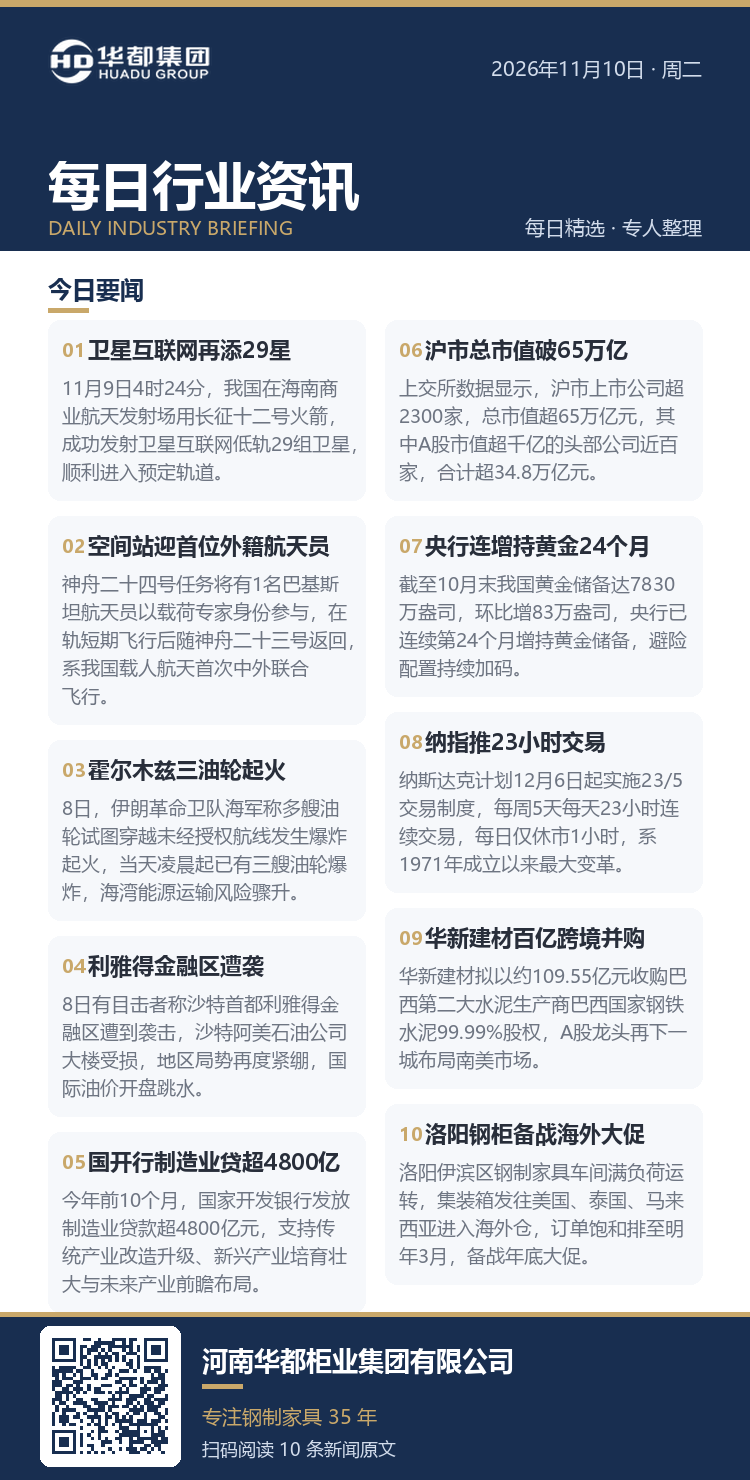
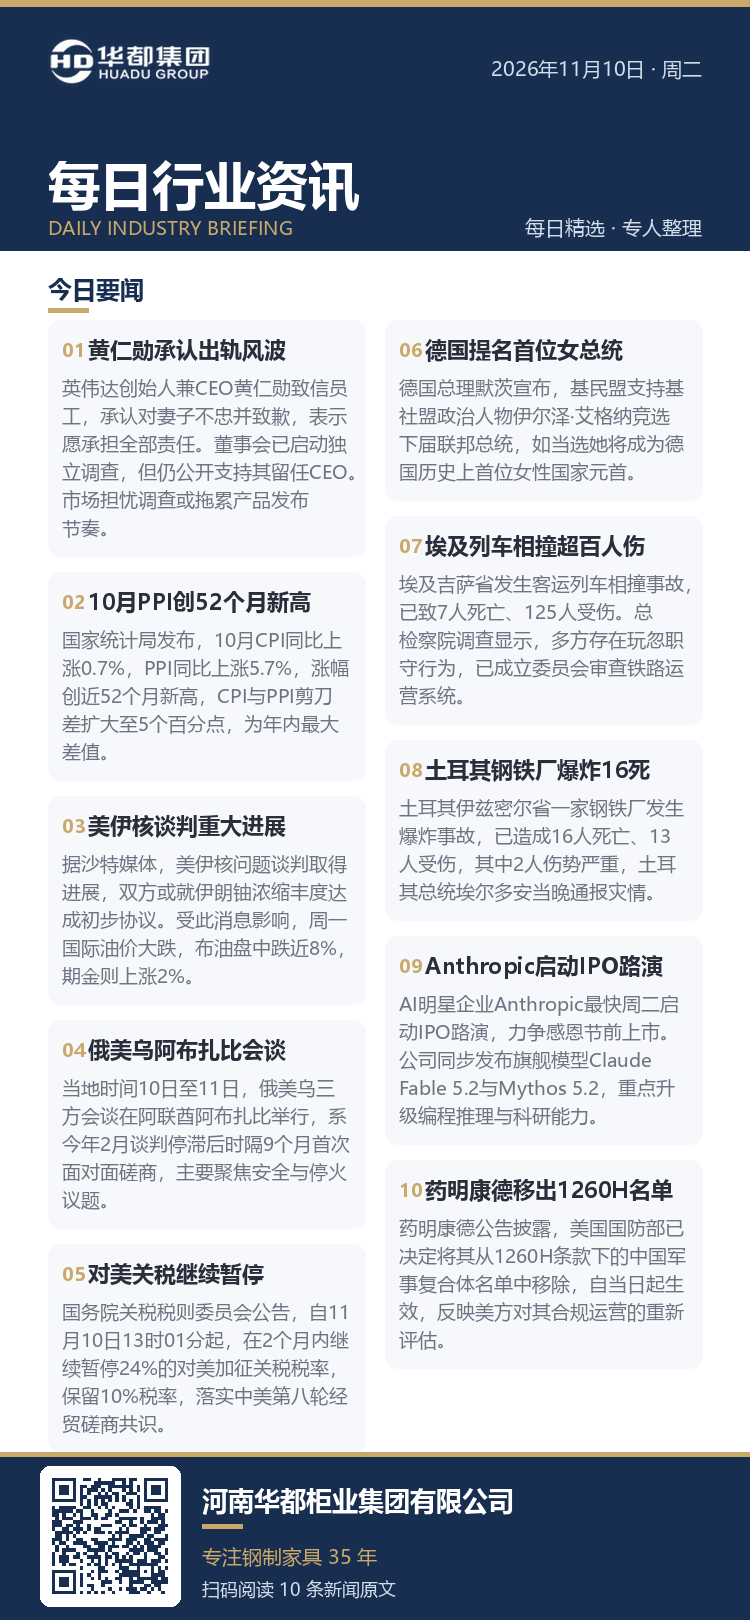
poster 2026-11-10

diff --git a/docs/2026-11-10.html b/docs/2026-11-10.html
@@ -40,7 +40,7 @@ body { font-family:-apple-system,'PingFang SC','Microsoft YaHei',sans-serif;
 <div class="tip">👇 今日海报（长按图片即可保存 / 转发同事群）</div>
 <img src="latest.png" alt="今日行业资讯海报">
 </div>
-<div class="list wrap"><div class="sect">今日要闻</div><div class="card"><span class="no">01</span><h2>卫星互联网再添29星</h2><p>11月9日4时24分，我国在海南商业航天发射场用长征十二号火箭，成功发射卫星互联网低轨29组卫星，顺利进入预定轨道。</p><div class="meta"><span class="src">新华社</span><a href="https://www.toutiao.com/article/7705958340392567305/" target="_blank" rel="noopener">阅读原文 →</a></div></div><div class="card"><span class="no">02</span><h2>空间站迎首位外籍航天员</h2><p>神舟二十四号任务将有1名巴基斯坦航天员以载荷专家身份参与，在轨短期飞行后随神舟二十三号返回，系我国载人航天首次中外联合飞行。</p><div class="meta"><span class="src">中国载人航天工程办公室</span><a href="http://mp.weixin.qq.com/s?__biz=MzA4MDQ2NDYxNg==&mid=2651831374&idx=1&sn=0f2ddb8da2fe7ee79a2aebd1fae492dd&chksm=8535d81f5999d8cf0ceb3f38de9c133ad6d46faba96b7d5d4239ddfdb222feba3f342994ce9b#rd" target="_blank" rel="noopener">阅读原文 →</a></div></div><div class="card"><span class="no">03</span><h2>霍尔木兹三油轮起火</h2><p>8日，伊朗革命卫队海军称多艘油轮试图穿越未经授权航线发生爆炸起火，当天凌晨起已有三艘油轮爆炸，海湾能源运输风险骤升。</p><div class="meta"><span class="src">央视新闻</span><a href="https://www.21jingji.com/article/20261109/herald/253e7bdbc68aeac4b6f3d27aa628c59d.html" target="_blank" rel="noopener">阅读原文 →</a></div></div><div class="card"><span class="no">04</span><h2>利雅得金融区遭袭</h2><p>8日有目击者称沙特首都利雅得金融区遭到袭击，沙特阿美石油公司大楼受损，地区局势再度紧绷，国际油价开盘跳水。</p><div class="meta"><span class="src">法新社</span><a href="https://m.21jingji.com/article/20261109/herald/9ed2a458b1149bbb23dc5a2c75c3e0ea.html" target="_blank" rel="noopener">阅读原文 →</a></div></div><div class="card"><span class="no">05</span><h2>国开行制造业贷超4800亿</h2><p>今年前10个月，国家开发银行发放制造业贷款超4800亿元，支持传统产业改造升级、新兴产业培育壮大与未来产业前瞻布局。</p><div class="meta"><span class="src">央视新闻</span><a href="https://www.jwview.com/jingwei/html/11-09/696136.shtml" target="_blank" rel="noopener">阅读原文 →</a></div></div><div class="card"><span class="no">06</span><h2>沪市总市值破65万亿</h2><p>上交所数据显示，沪市上市公司超2300家，总市值超65万亿元，其中A股市值超千亿的头部公司近百家，合计超34.8万亿元。</p><div class="meta"><span class="src">上交所</span><a href="https://www.cnfin.com/hb-lb/detail/20261109/4492657_1.html" target="_blank" rel="noopener">阅读原文 →</a></div></div><div class="card"><span class="no">07</span><h2>央行连增持黄金24个月</h2><p>截至10月末我国黄金储备达7830万盎司，环比增83万盎司，央行已连续第24个月增持黄金储备，避险配置持续加码。</p><div class="meta"><span class="src">央行</span><a href="https://www.cnstock.com/commonDetail/825848" target="_blank" rel="noopener">阅读原文 →</a></div></div><div class="card"><span class="no">08</span><h2>纳指推23小时交易</h2><p>纳斯达克计划12月6日起实施23/5交易制度，每周5天每天23小时连续交易，每日仅休市1小时，系1971年成立以来最大变革。</p><div class="meta"><span class="src">陆家嘴财经早餐</span><a href="http://mp.weixin.qq.com/s?__biz=MjM5ODQ4MjgyMQ==&mid=2651354945&idx=2&sn=52ca3491ad013a7312f3e940596638ae&chksm=bc351450389b948f7e022ce39c8125fdf6e664227c0d23af67dfaba7601aeec0da136a595c40#rd" target="_blank" rel="noopener">阅读原文 →</a></div></div><div class="card"><span class="no">09</span><h2>华新建材百亿跨境并购</h2><p>华新建材拟以约109.55亿元收购巴西第二大水泥生产商巴西国家钢铁水泥99.99%股权，A股龙头再下一城布局南美市场。</p><div class="meta"><span class="src">大河财立方</span><a href="https://app.dahecube.com/nweb/pc/article.html?artid=292241?recid=1" target="_blank" rel="noopener">阅读原文 →</a></div></div><div class="card"><span class="no">10</span><h2>洛阳钢柜备战海外大促</h2><p>洛阳伊滨区钢制家具车间满负荷运转，集装箱发往美国、泰国、马来西亚进入海外仓，订单饱和排至明年3月，备战年底大促。</p><div class="meta"><span class="src">新华财经</span><a href="https://www.cnfin.com/hg-lb/detail/20261109/4492638_1.html" target="_blank" rel="noopener">阅读原文 →</a></div></div></div>
+<div class="list wrap"><div class="sect">今日要闻</div><div class="card"><span class="no">01</span><h2>黄仁勋承认出轨风波</h2><p>英伟达创始人兼CEO黄仁勋致信员工，承认对妻子不忠并致歉，表示愿承担全部责任。董事会已启动独立调查，但仍公开支持其留任CEO。市场担忧调查或拖累产品发布节奏。</p><div class="meta"><span class="src">腾讯新闻</span><a href="https://news.qq.com/rain/a/20261110A037NX00" target="_blank" rel="noopener">阅读原文 →</a></div></div><div class="card"><span class="no">02</span><h2>10月PPI创52个月新高</h2><p>国家统计局发布，10月CPI同比上涨0.7%，PPI同比上涨5.7%，涨幅创近52个月新高，CPI与PPI剪刀差扩大至5个百分点，为年内最大差值。</p><div class="meta"><span class="src">新华财经</span><a href="https://www.cnfin.com/hb-lb/detail/20261110/4493224_1.html" target="_blank" rel="noopener">阅读原文 →</a></div></div><div class="card"><span class="no">03</span><h2>美伊核谈判重大进展</h2><p>据沙特媒体，美伊核问题谈判取得进展，双方或就伊朗铀浓缩丰度达成初步协议。受此消息影响，周一国际油价大跌，布油盘中跌近8%，期金则上涨2%。</p><div class="meta"><span class="src">华尔街见闻</span><a href="https://www.163.com/dy/article/LBBTSBKV05198NMR.html" target="_blank" rel="noopener">阅读原文 →</a></div></div><div class="card"><span class="no">04</span><h2>俄美乌阿布扎比会谈</h2><p>当地时间10日至11日，俄美乌三方会谈在阿联酋阿布扎比举行，系今年2月谈判停滞后时隔9个月首次面对面磋商，主要聚焦安全与停火议题。</p><div class="meta"><span class="src">央视网</span><a href="https://tv.cctv.com/2026/11/10/VIDEg3KH0fjQomdLrC8sbMil261110.shtml" target="_blank" rel="noopener">阅读原文 →</a></div></div><div class="card"><span class="no">05</span><h2>对美关税继续暂停</h2><p>国务院关税税则委员会公告，自11月10日13时01分起，在2个月内继续暂停24%的对美加征关税税率，保留10%税率，落实中美第八轮经贸磋商共识。</p><div class="meta"><span class="src">新华财经</span><a href="https://www.cnfin.com/hb-lb/detail/20261110/4493224_1.html" target="_blank" rel="noopener">阅读原文 →</a></div></div><div class="card"><span class="no">06</span><h2>德国提名首位女总统</h2><p>德国总理默茨宣布，基民盟支持基社盟政治人物伊尔泽·艾格纳竞选下届联邦总统，如当选她将成为德国历史上首位女性国家元首。</p><div class="meta"><span class="src">腾讯新闻</span><a href="https://new.qq.com/rain/a/20261110A03HOV00" target="_blank" rel="noopener">阅读原文 →</a></div></div><div class="card"><span class="no">07</span><h2>埃及列车相撞超百人伤</h2><p>埃及吉萨省发生客运列车相撞事故，已致7人死亡、125人受伤。总检察院调查显示，多方存在玩忽职守行为，已成立委员会审查铁路运营系统。</p><div class="meta"><span class="src">央视新闻</span><a href="https://ysxw.cctv.cn/article.html?toc_style_id=feeds_default&item_id=11585613226071502483&channelId=1119" target="_blank" rel="noopener">阅读原文 →</a></div></div><div class="card"><span class="no">08</span><h2>土耳其钢铁厂爆炸16死</h2><p>土耳其伊兹密尔省一家钢铁厂发生爆炸事故，已造成16人死亡、13人受伤，其中2人伤势严重，土耳其总统埃尔多安当晚通报灾情。</p><div class="meta"><span class="src">央视新闻</span><a href="https://ysxw.cctv.cn/article.html?toc_style_id=feeds_default&item_id=11585613226071502483&channelId=1119" target="_blank" rel="noopener">阅读原文 →</a></div></div><div class="card"><span class="no">09</span><h2>Anthropic启动IPO路演</h2><p>AI明星企业Anthropic最快周二启动IPO路演，力争感恩节前上市。公司同步发布旗舰模型Claude Fable 5.2与Mythos 5.2，重点升级编程推理与科研能力。</p><div class="meta"><span class="src">腾讯新闻</span><a href="https://news.qq.com/rain/a/20261110A037NX00" target="_blank" rel="noopener">阅读原文 →</a></div></div><div class="card"><span class="no">10</span><h2>药明康德移出1260H名单</h2><p>药明康德公告披露，美国国防部已决定将其从1260H条款下的中国军事复合体名单中移除，自当日起生效，反映美方对其合规运营的重新评估。</p><div class="meta"><span class="src">中国基金报</span><a href="https://www.chnfund.com/web/sx" target="_blank" rel="noopener">阅读原文 →</a></div></div></div>
 <div class="tip">点击「阅读原文」查看各家媒体报道全文</div>
 <div class="footer"><div class="co">河南华都柜业集团有限公司</div>
 <div class="slogan">专注钢制家具 35 年</div></div>

diff --git a/docs/index.html b/docs/index.html
@@ -40,7 +40,7 @@ body { font-family:-apple-system,'PingFang SC','Microsoft YaHei',sans-serif;
 <div class="tip">👇 今日海报（长按图片即可保存 / 转发同事群）</div>
 <img src="latest.png" alt="今日行业资讯海报">
 </div>
-<div class="list wrap"><div class="sect">今日要闻</div><div class="card"><span class="no">01</span><h2>卫星互联网再添29星</h2><p>11月9日4时24分，我国在海南商业航天发射场用长征十二号火箭，成功发射卫星互联网低轨29组卫星，顺利进入预定轨道。</p><div class="meta"><span class="src">新华社</span><a href="https://www.toutiao.com/article/7705958340392567305/" target="_blank" rel="noopener">阅读原文 →</a></div></div><div class="card"><span class="no">02</span><h2>空间站迎首位外籍航天员</h2><p>神舟二十四号任务将有1名巴基斯坦航天员以载荷专家身份参与，在轨短期飞行后随神舟二十三号返回，系我国载人航天首次中外联合飞行。</p><div class="meta"><span class="src">中国载人航天工程办公室</span><a href="http://mp.weixin.qq.com/s?__biz=MzA4MDQ2NDYxNg==&mid=2651831374&idx=1&sn=0f2ddb8da2fe7ee79a2aebd1fae492dd&chksm=8535d81f5999d8cf0ceb3f38de9c133ad6d46faba96b7d5d4239ddfdb222feba3f342994ce9b#rd" target="_blank" rel="noopener">阅读原文 →</a></div></div><div class="card"><span class="no">03</span><h2>霍尔木兹三油轮起火</h2><p>8日，伊朗革命卫队海军称多艘油轮试图穿越未经授权航线发生爆炸起火，当天凌晨起已有三艘油轮爆炸，海湾能源运输风险骤升。</p><div class="meta"><span class="src">央视新闻</span><a href="https://www.21jingji.com/article/20261109/herald/253e7bdbc68aeac4b6f3d27aa628c59d.html" target="_blank" rel="noopener">阅读原文 →</a></div></div><div class="card"><span class="no">04</span><h2>利雅得金融区遭袭</h2><p>8日有目击者称沙特首都利雅得金融区遭到袭击，沙特阿美石油公司大楼受损，地区局势再度紧绷，国际油价开盘跳水。</p><div class="meta"><span class="src">法新社</span><a href="https://m.21jingji.com/article/20261109/herald/9ed2a458b1149bbb23dc5a2c75c3e0ea.html" target="_blank" rel="noopener">阅读原文 →</a></div></div><div class="card"><span class="no">05</span><h2>国开行制造业贷超4800亿</h2><p>今年前10个月，国家开发银行发放制造业贷款超4800亿元，支持传统产业改造升级、新兴产业培育壮大与未来产业前瞻布局。</p><div class="meta"><span class="src">央视新闻</span><a href="https://www.jwview.com/jingwei/html/11-09/696136.shtml" target="_blank" rel="noopener">阅读原文 →</a></div></div><div class="card"><span class="no">06</span><h2>沪市总市值破65万亿</h2><p>上交所数据显示，沪市上市公司超2300家，总市值超65万亿元，其中A股市值超千亿的头部公司近百家，合计超34.8万亿元。</p><div class="meta"><span class="src">上交所</span><a href="https://www.cnfin.com/hb-lb/detail/20261109/4492657_1.html" target="_blank" rel="noopener">阅读原文 →</a></div></div><div class="card"><span class="no">07</span><h2>央行连增持黄金24个月</h2><p>截至10月末我国黄金储备达7830万盎司，环比增83万盎司，央行已连续第24个月增持黄金储备，避险配置持续加码。</p><div class="meta"><span class="src">央行</span><a href="https://www.cnstock.com/commonDetail/825848" target="_blank" rel="noopener">阅读原文 →</a></div></div><div class="card"><span class="no">08</span><h2>纳指推23小时交易</h2><p>纳斯达克计划12月6日起实施23/5交易制度，每周5天每天23小时连续交易，每日仅休市1小时，系1971年成立以来最大变革。</p><div class="meta"><span class="src">陆家嘴财经早餐</span><a href="http://mp.weixin.qq.com/s?__biz=MjM5ODQ4MjgyMQ==&mid=2651354945&idx=2&sn=52ca3491ad013a7312f3e940596638ae&chksm=bc351450389b948f7e022ce39c8125fdf6e664227c0d23af67dfaba7601aeec0da136a595c40#rd" target="_blank" rel="noopener">阅读原文 →</a></div></div><div class="card"><span class="no">09</span><h2>华新建材百亿跨境并购</h2><p>华新建材拟以约109.55亿元收购巴西第二大水泥生产商巴西国家钢铁水泥99.99%股权，A股龙头再下一城布局南美市场。</p><div class="meta"><span class="src">大河财立方</span><a href="https://app.dahecube.com/nweb/pc/article.html?artid=292241?recid=1" target="_blank" rel="noopener">阅读原文 →</a></div></div><div class="card"><span class="no">10</span><h2>洛阳钢柜备战海外大促</h2><p>洛阳伊滨区钢制家具车间满负荷运转，集装箱发往美国、泰国、马来西亚进入海外仓，订单饱和排至明年3月，备战年底大促。</p><div class="meta"><span class="src">新华财经</span><a href="https://www.cnfin.com/hg-lb/detail/20261109/4492638_1.html" target="_blank" rel="noopener">阅读原文 →</a></div></div></div>
+<div class="list wrap"><div class="sect">今日要闻</div><div class="card"><span class="no">01</span><h2>黄仁勋承认出轨风波</h2><p>英伟达创始人兼CEO黄仁勋致信员工，承认对妻子不忠并致歉，表示愿承担全部责任。董事会已启动独立调查，但仍公开支持其留任CEO。市场担忧调查或拖累产品发布节奏。</p><div class="meta"><span class="src">腾讯新闻</span><a href="https://news.qq.com/rain/a/20261110A037NX00" target="_blank" rel="noopener">阅读原文 →</a></div></div><div class="card"><span class="no">02</span><h2>10月PPI创52个月新高</h2><p>国家统计局发布，10月CPI同比上涨0.7%，PPI同比上涨5.7%，涨幅创近52个月新高，CPI与PPI剪刀差扩大至5个百分点，为年内最大差值。</p><div class="meta"><span class="src">新华财经</span><a href="https://www.cnfin.com/hb-lb/detail/20261110/4493224_1.html" target="_blank" rel="noopener">阅读原文 →</a></div></div><div class="card"><span class="no">03</span><h2>美伊核谈判重大进展</h2><p>据沙特媒体，美伊核问题谈判取得进展，双方或就伊朗铀浓缩丰度达成初步协议。受此消息影响，周一国际油价大跌，布油盘中跌近8%，期金则上涨2%。</p><div class="meta"><span class="src">华尔街见闻</span><a href="https://www.163.com/dy/article/LBBTSBKV05198NMR.html" target="_blank" rel="noopener">阅读原文 →</a></div></div><div class="card"><span class="no">04</span><h2>俄美乌阿布扎比会谈</h2><p>当地时间10日至11日，俄美乌三方会谈在阿联酋阿布扎比举行，系今年2月谈判停滞后时隔9个月首次面对面磋商，主要聚焦安全与停火议题。</p><div class="meta"><span class="src">央视网</span><a href="https://tv.cctv.com/2026/11/10/VIDEg3KH0fjQomdLrC8sbMil261110.shtml" target="_blank" rel="noopener">阅读原文 →</a></div></div><div class="card"><span class="no">05</span><h2>对美关税继续暂停</h2><p>国务院关税税则委员会公告，自11月10日13时01分起，在2个月内继续暂停24%的对美加征关税税率，保留10%税率，落实中美第八轮经贸磋商共识。</p><div class="meta"><span class="src">新华财经</span><a href="https://www.cnfin.com/hb-lb/detail/20261110/4493224_1.html" target="_blank" rel="noopener">阅读原文 →</a></div></div><div class="card"><span class="no">06</span><h2>德国提名首位女总统</h2><p>德国总理默茨宣布，基民盟支持基社盟政治人物伊尔泽·艾格纳竞选下届联邦总统，如当选她将成为德国历史上首位女性国家元首。</p><div class="meta"><span class="src">腾讯新闻</span><a href="https://new.qq.com/rain/a/20261110A03HOV00" target="_blank" rel="noopener">阅读原文 →</a></div></div><div class="card"><span class="no">07</span><h2>埃及列车相撞超百人伤</h2><p>埃及吉萨省发生客运列车相撞事故，已致7人死亡、125人受伤。总检察院调查显示，多方存在玩忽职守行为，已成立委员会审查铁路运营系统。</p><div class="meta"><span class="src">央视新闻</span><a href="https://ysxw.cctv.cn/article.html?toc_style_id=feeds_default&item_id=11585613226071502483&channelId=1119" target="_blank" rel="noopener">阅读原文 →</a></div></div><div class="card"><span class="no">08</span><h2>土耳其钢铁厂爆炸16死</h2><p>土耳其伊兹密尔省一家钢铁厂发生爆炸事故，已造成16人死亡、13人受伤，其中2人伤势严重，土耳其总统埃尔多安当晚通报灾情。</p><div class="meta"><span class="src">央视新闻</span><a href="https://ysxw.cctv.cn/article.html?toc_style_id=feeds_default&item_id=11585613226071502483&channelId=1119" target="_blank" rel="noopener">阅读原文 →</a></div></div><div class="card"><span class="no">09</span><h2>Anthropic启动IPO路演</h2><p>AI明星企业Anthropic最快周二启动IPO路演，力争感恩节前上市。公司同步发布旗舰模型Claude Fable 5.2与Mythos 5.2，重点升级编程推理与科研能力。</p><div class="meta"><span class="src">腾讯新闻</span><a href="https://news.qq.com/rain/a/20261110A037NX00" target="_blank" rel="noopener">阅读原文 →</a></div></div><div class="card"><span class="no">10</span><h2>药明康德移出1260H名单</h2><p>药明康德公告披露，美国国防部已决定将其从1260H条款下的中国军事复合体名单中移除，自当日起生效，反映美方对其合规运营的重新评估。</p><div class="meta"><span class="src">中国基金报</span><a href="https://www.chnfund.com/web/sx" target="_blank" rel="noopener">阅读原文 →</a></div></div></div>
 <div class="tip">点击「阅读原文」查看各家媒体报道全文</div>
 <div class="footer"><div class="co">河南华都柜业集团有限公司</div>
 <div class="slogan">专注钢制家具 35 年</div></div>
